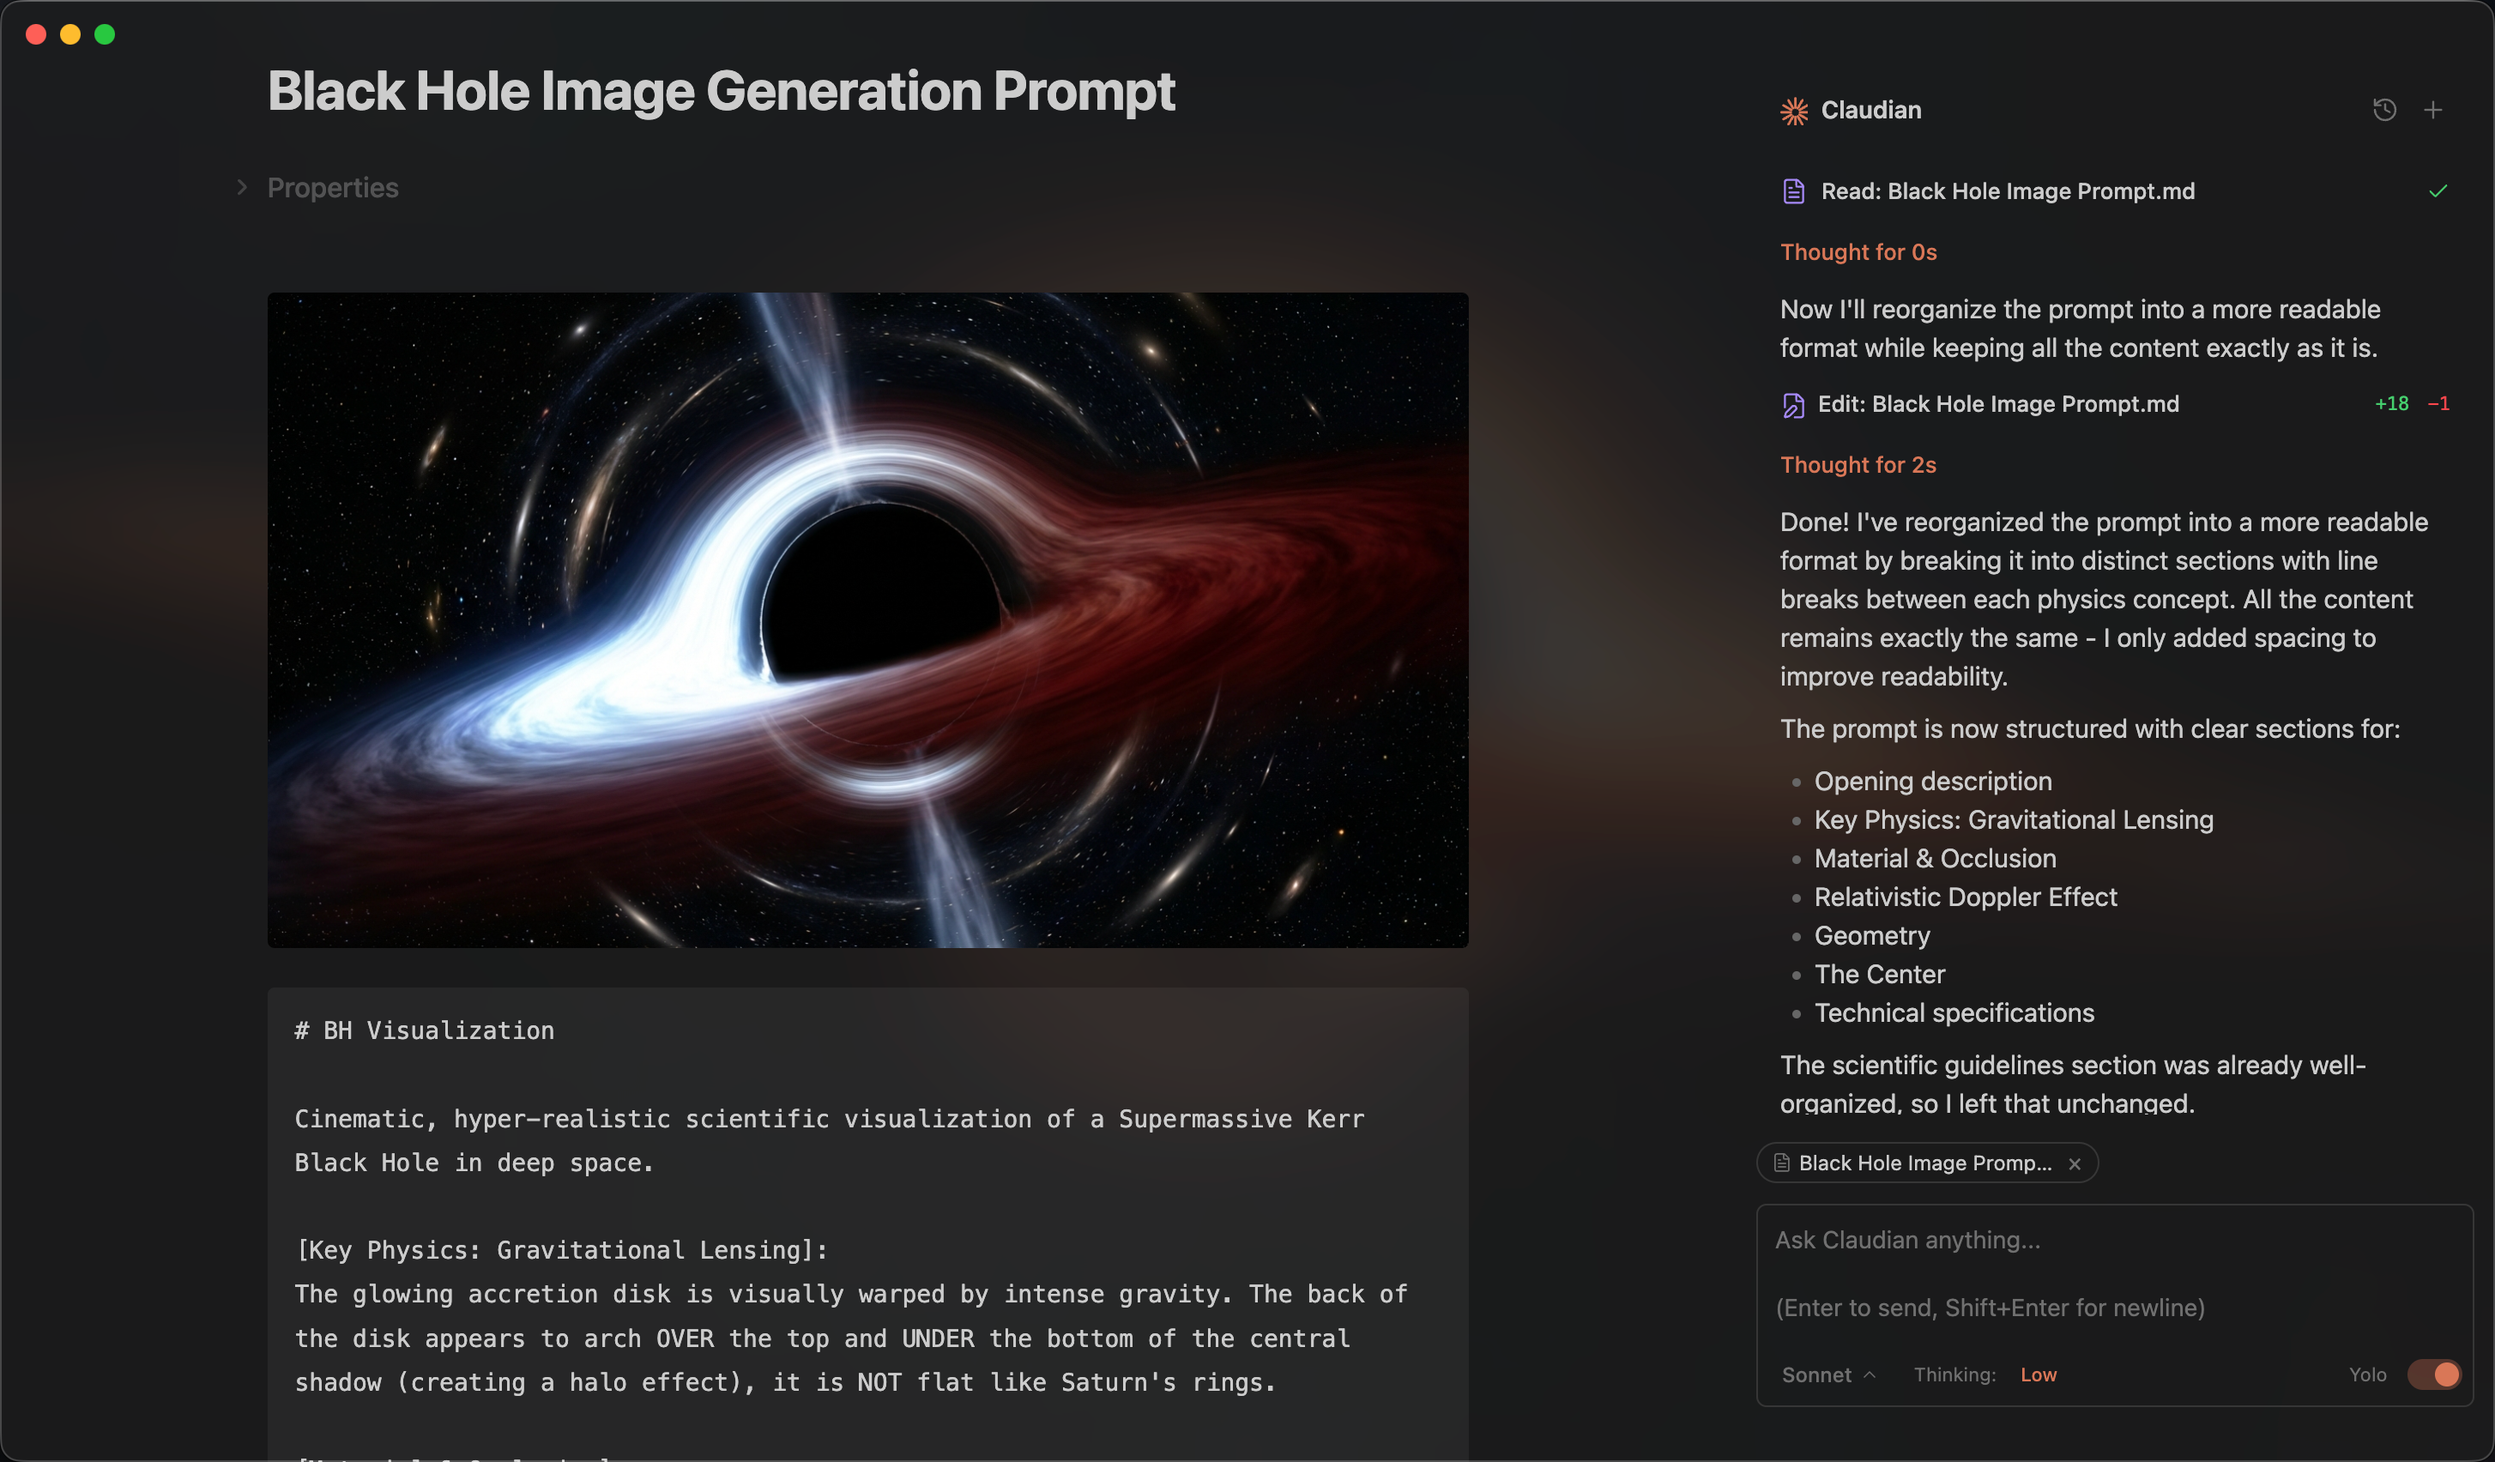
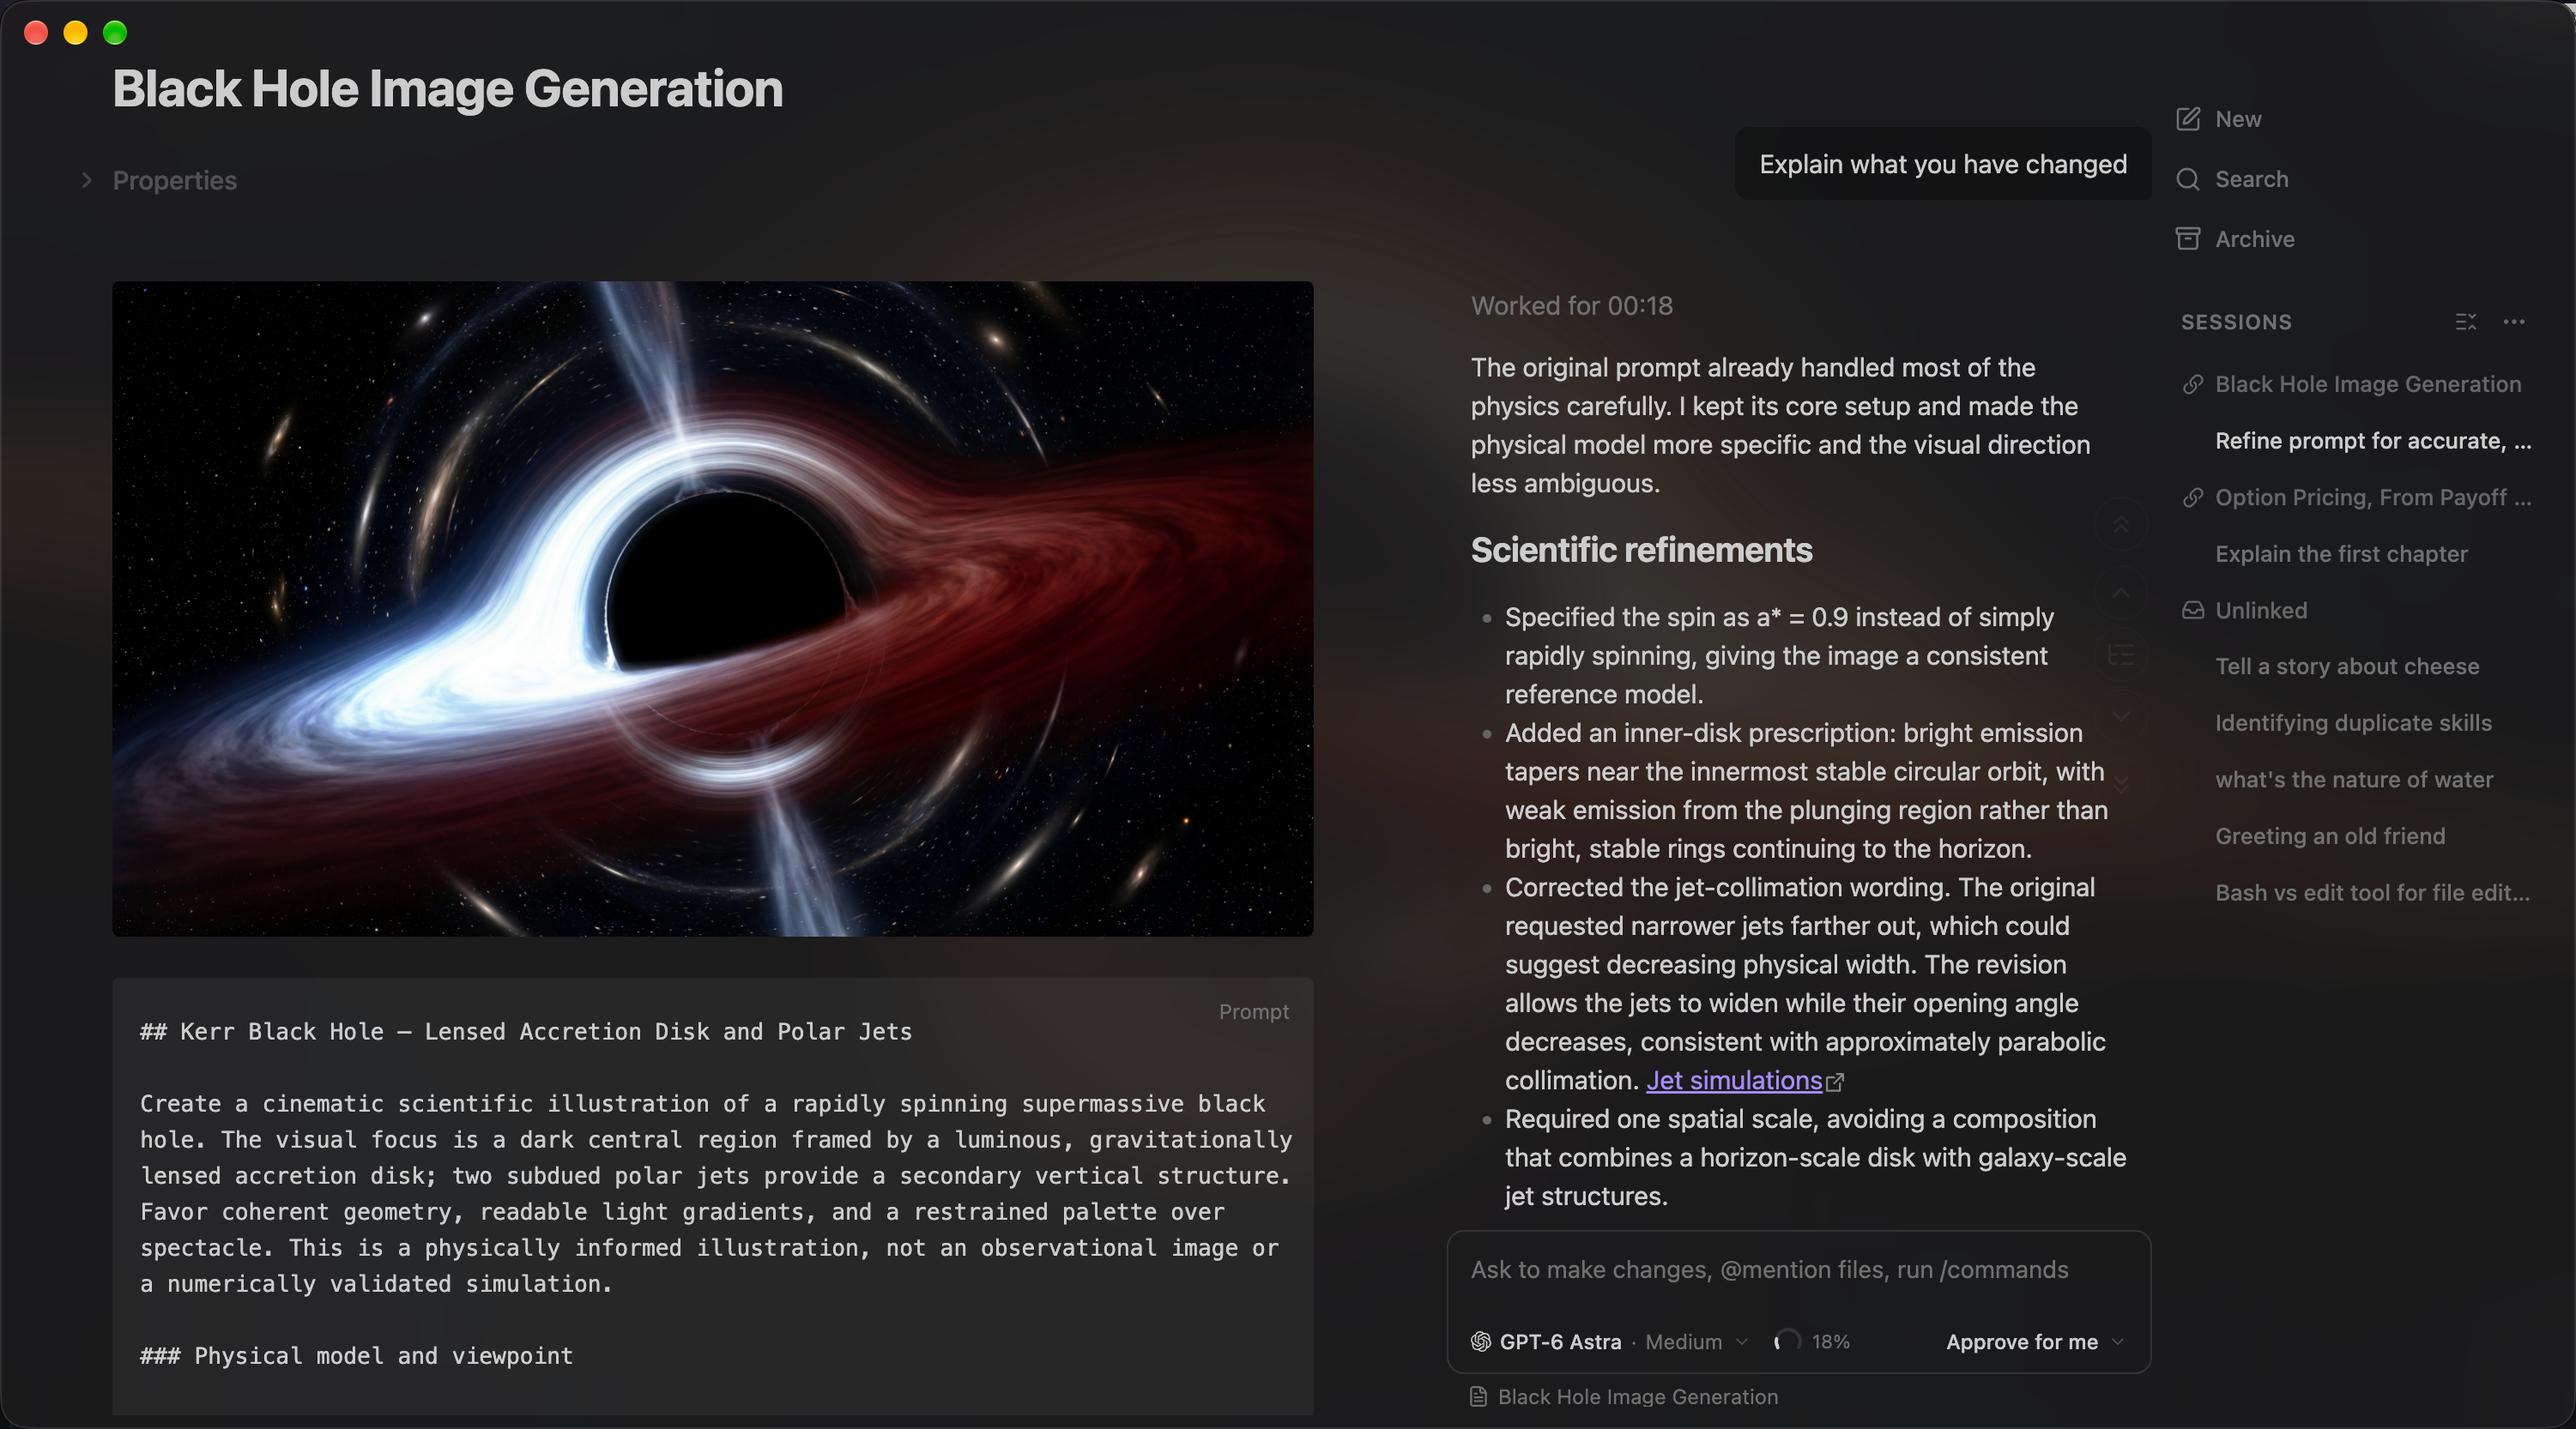
docs(readme): refresh preview and link zen and pane screenshots

diff --git a/README.md b/README.md
@@ -23,7 +23,7 @@ Open Claudian interface from the ribbon icon or command palette. Everything work
 
 **Inline Edit** — Select text or start at the cursor position + hotkey to edit directly in notes with word-level diff preview.
 
-**Zen Mode** — Collapse the sidebar holding Claudian and the chat moves to a compact composer at the bottom of your notes, with a one-line activity preview and the conversation one click away.
+**Zen Mode** — Collapse the sidebar holding Claudian and the chat moves to a [compact composer](assets/zen-mode-collapsed.png) at the bottom of your notes, with a one-line activity preview and [the conversation one click away](assets/zen-mode-expanded.png).
 
 **Slash Commands & Skills** — Type `/` or `$` for reusable prompt templates or Skills from user- and vault-level scopes.
 
@@ -33,7 +33,7 @@ Open Claudian interface from the ribbon icon or command palette. Everything work
 
 **MCP Servers** — Connect external tools through each coding agent's native CLI-managed MCP configuration.
 
-**Tabs & Session Management** — Use multiple tabs in single-panel mode or a persistent session manager beside the chat in dual-pane mode.
+**Tabs & Session Management** — Use multiple tabs in [single-pane mode](assets/main-chat-single-pane.png) or a persistent session manager beside the chat in [dual-pane mode](assets/main-chat-dual-pane.png).
 
 **Collaboration** — Collab is now a standalone plugin. See [Claudian Collab](https://github.com/YishenTu/claudian-collab).
 
